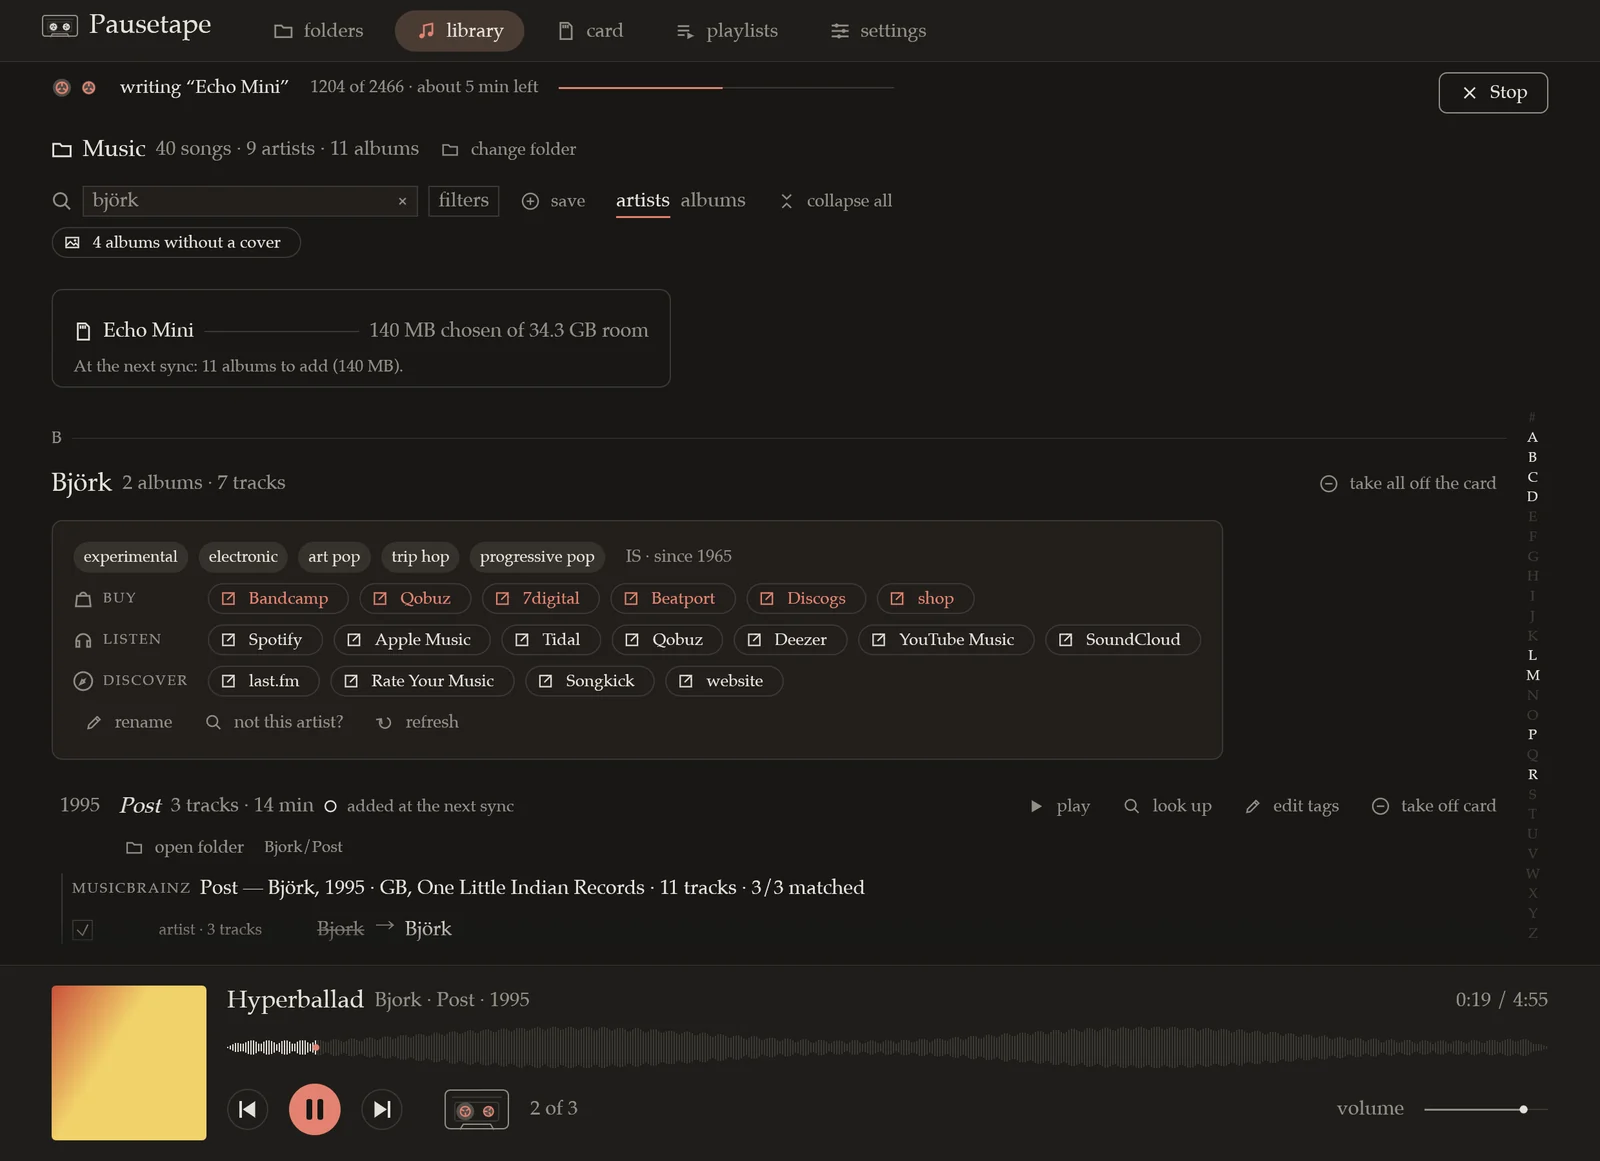
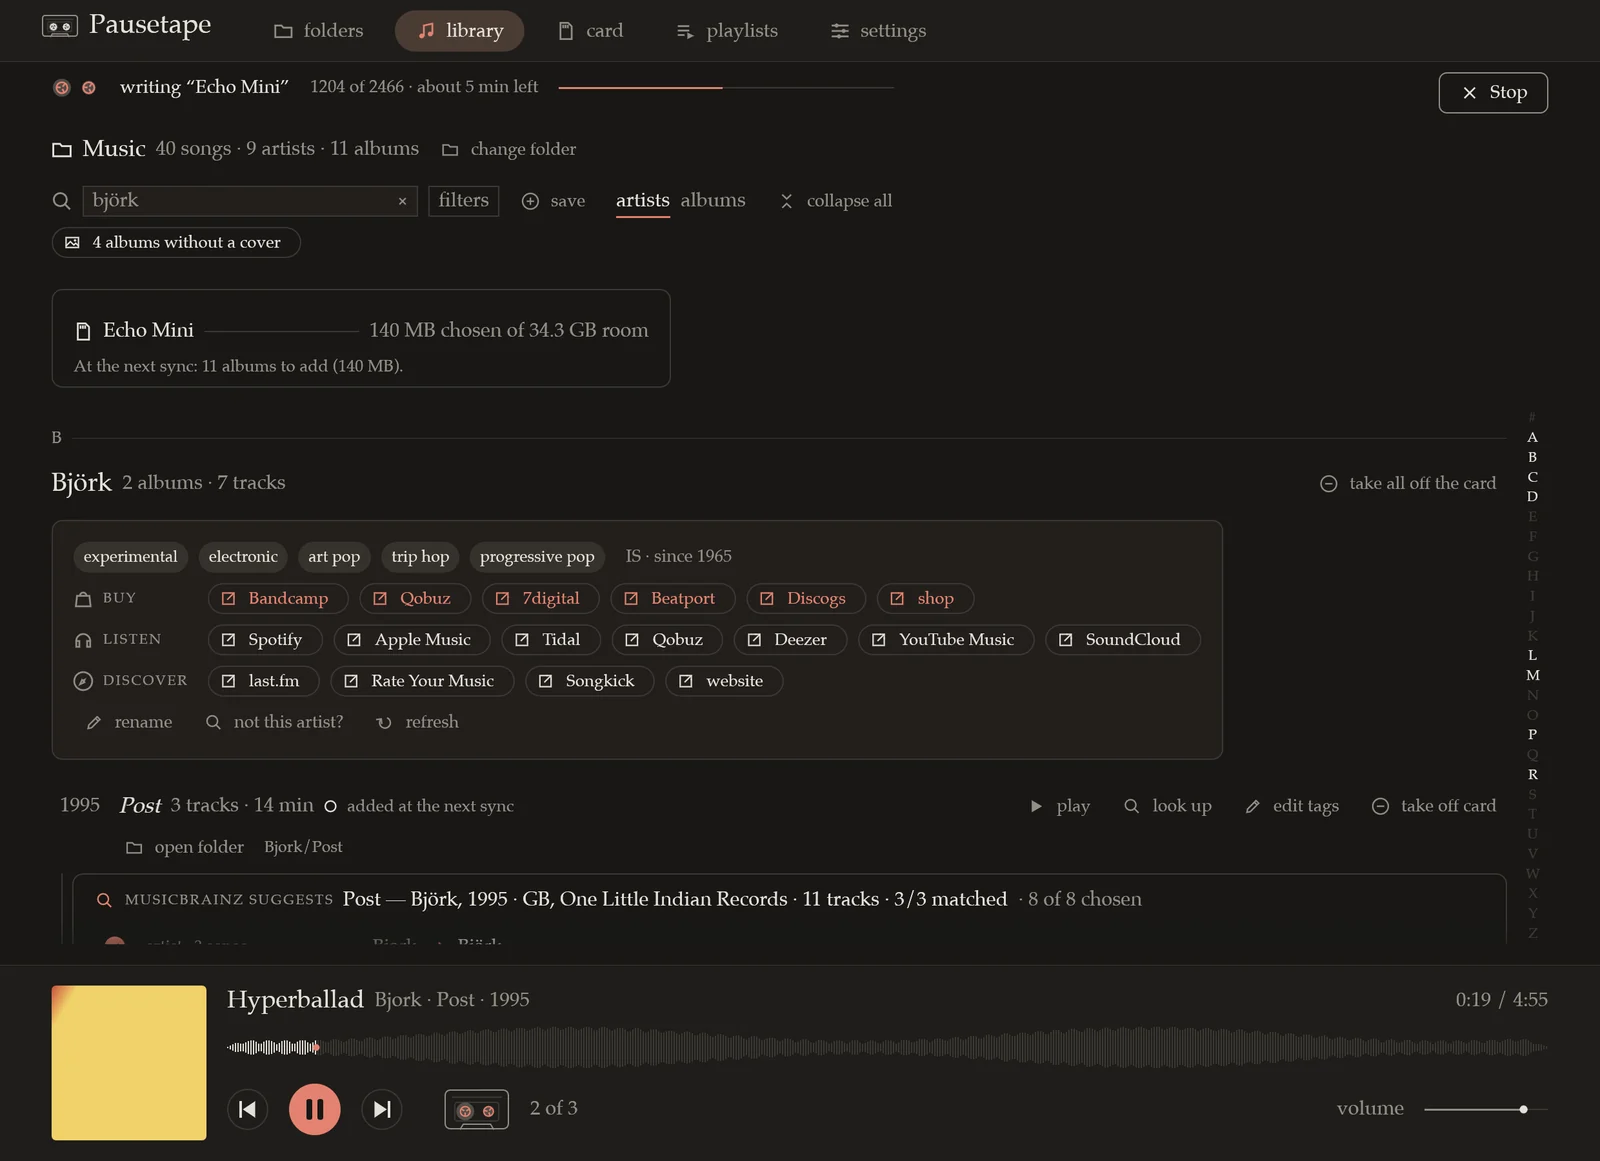
docs(site): screenshots of the app as it is now, and the tour's marks to fit
The card tab's marks and views, MusicBrainz suggestions with their
ticks, and no format note above the library. Steps 3 and 4 have their
marks moved and notes changed to match. site-shots.py makes its demo
folder before the card image, as it failed once the folder was deleted.

diff --git a/site/index.html b/site/index.html
@@ -167,14 +167,14 @@
           <small>FAT32 or exFAT, as the player wants.</small></span></button>
       </li>
       <li data-shot="step-tidy"
-          data-marks="3.1 35.3 15 3.6 | 4 70.6 50.4 10.5 | 3.25 40.3 73.1 20.7"
-          data-notes="“Bjork” and “Björk” were two artists. Now they're one. | MusicBrainz suggests the right spelling. Nothing changes until you accept it. | And if you like what you hear: where to buy it, or listen to more first.">
+          data-marks="3.1 35.3 15 3.6 | 3.7 70.9 68 10.7 | 3.25 40.3 73.1 20.7"
+          data-notes="“Bjork” and “Björk” were two artists. Now they're one. | MusicBrainz suggests the right spelling. Untick what you don't want; nothing changes until you apply it. | And if you like what you hear: where to buy it, or listen to more first.">
         <button type="button"><span class="num">3</span><span><b>Let it tidy up</b>
           <small>Names, years, track numbers.</small></span></button>
       </li>
       <li data-shot="step-choose"
-          data-marks="3.1 63.3 92.5 10.3 | 87.1 15.7 7 3.4"
-          data-notes="Tick the artists and albums that go on this card. On the right, how their folders will be named. | Press Sync.">
+          data-marks="3.1 59.3 92.8 22.4 | 87.1 15.7 7 3.4"
+          data-notes="Tick the artists and albums that go on this card. The mark beside each says what Sync does: copy it, keep it, or take it off. | Press Sync.">
         <button type="button"><span class="num">4</span><span><b>Pick the songs</b>
           <small>Whole artists, albums, playlists.</small></span></button>
       </li>
@@ -203,7 +203,7 @@
         </picture>
         <picture class="tour-shot">
           <source srcset="img/step-choose-dark.webp" media="(prefers-color-scheme: dark)">
-          <img src="img/step-choose-light.webp" width="1600" height="1161" loading="lazy" alt="The card tab: Björk's two albums ticked, each with the folder name it gets on the card, and the Sync button.">
+          <img src="img/step-choose-light.webp" width="1600" height="1161" loading="lazy" alt="The card tab: Björk's two albums ticked, each marked as added at the next Sync and with the folder name it gets on the card, and the Sync button.">
         </picture>
         <picture class="tour-shot">
           <source srcset="img/step-record-dark.webp" media="(prefers-color-scheme: dark)">

diff --git a/scripts/site-shots.py b/scripts/site-shots.py
@@ -108,6 +108,7 @@ def library():
 
 def mount_card():
     image = DEMO / "echo-mini.sparseimage"
+    DEMO.mkdir(parents=True, exist_ok=True)
     if not image.exists():
         run("hdiutil", "create", "-quiet", "-size", "32g", "-fs", "MS-DOS FAT32", "-volname", "ECHO MINI", "-type", "SPARSE", str(image.with_suffix("")))
     if not CARD.exists():

diff --git a/CHANGELOG.md b/CHANGELOG.md
@@ -766,3 +766,9 @@ Calibre's device view, for music: the library is where you choose what goes on t
   and sits centred in its column when whole pixels leave room beside it, as on a phone.
 - The foot of the page is signed, as a tape's label would be: *made by Emiliano Solórzano*,
   the name by hand. The handwriting font now has accented letters (Latin-1), 9 KB more.
+
+### 63. The website's screenshots taken again (2026-11-02)
+- The tour and the top of the page show the app as it is now: the card tab's marks and views,
+  MusicBrainz suggestions with their ticks, no format note above the library. The marks of
+  steps 3 and 4 moved to fit, and step 4's note says what the marks beside the ticks mean.
+- `scripts/site-shots.py` makes its demo folder first, as it failed once that was deleted.
